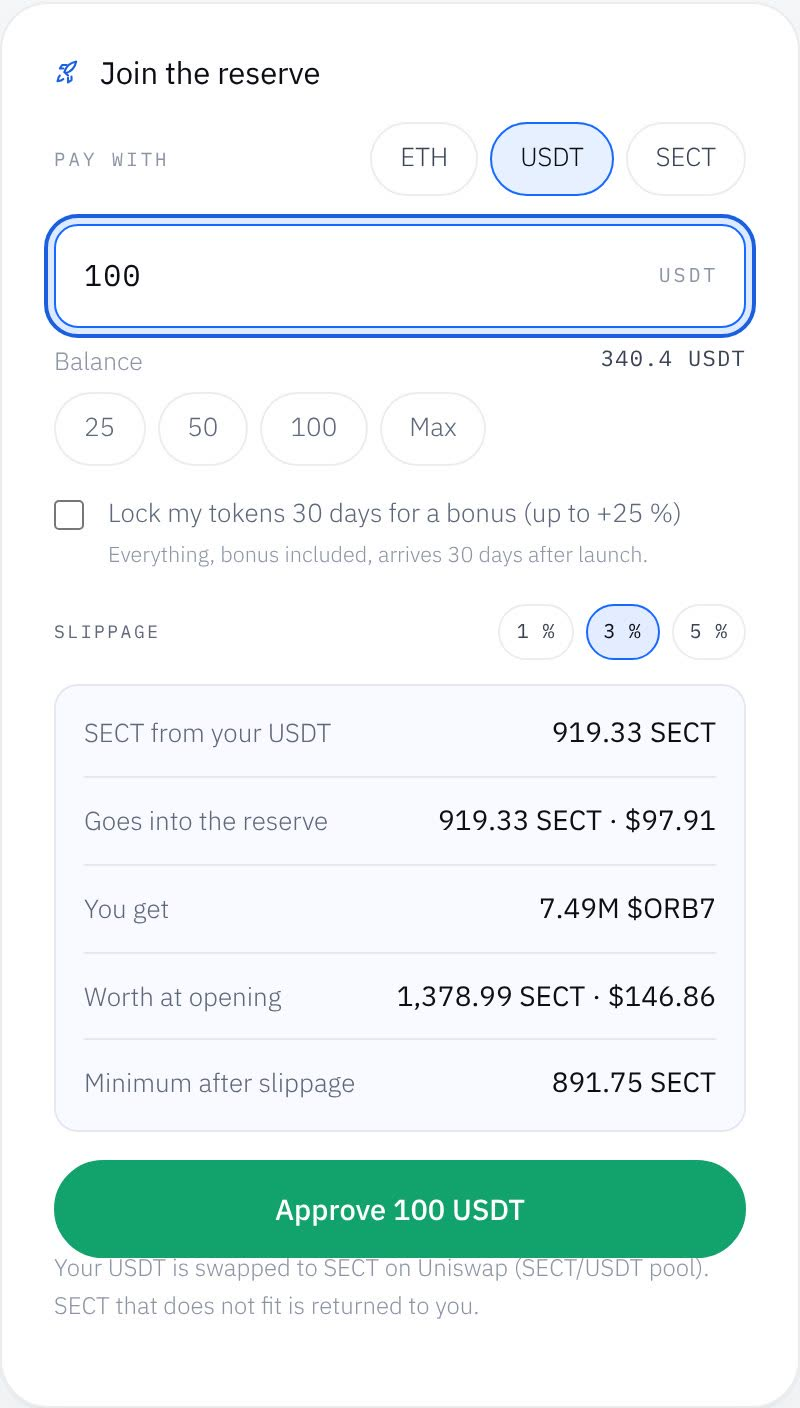
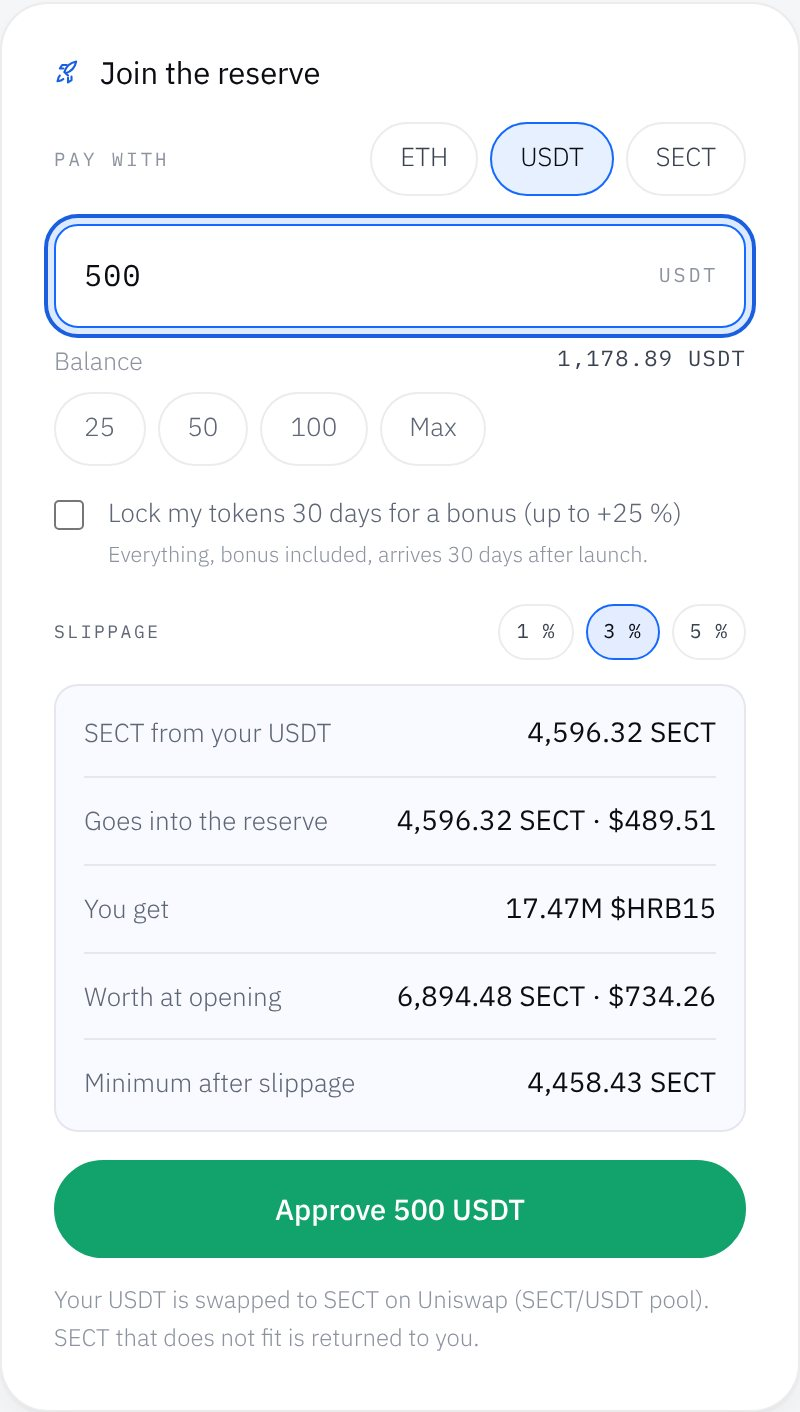
Intro: real iPhone frame for the phone shots (like the airdrop guide), example with $500, English by default, new screenshots; join note no longer overlaps its button
Claude-Session: https://claude.ai/code/session_012XH3DXuKTEfxWgn6TkaSoC

diff --git a/intro/i18n.js b/intro/i18n.js
@@ -54,14 +54,14 @@
     w_note: "<b>The goal is not reached in time?</b> Everyone takes back 100 % of what they put in. No fees, no small print.",
     b_eb: "Part B · Your investment", b_t: "With the 75 % you get your 100 % back. <span>The 25 % is profit.</span>",
     b_p: "Because the pool opens 50 % above the price everyone paid in the reserve, the 75 % you receive at launch is already worth more than everything you put in. The 25 % that arrives over the next 7 days is the gain: the reflection of that 50 % rise.",
-    b_exh: "Example · you put $100 in a reserve",
+    b_exh: "Example · you put $500 in a reserve (the maximum per wallet)",
     b_r1: "You put in the reserve", b_r2: "Your tokens at the opening price (+50 %)", b_r3: "75 % delivered at launch", b_r4: "25 % delivered over 7 days", b_r5: "Total gain at the opening price",
     bl_in: "What you put in", bk_in: "your investment",
-    bl_out: "What you receive, at the opening price", bk_a: "75 % · covers your $100", bk_c: "25 % · gain",
-    b_bars: "The 75 % ($112.50) is more than your $100: <b>your whole investment is covered from day one</b>. The 25 % ($37.50) is pure gain, and with the $12.50 extra inside the 75 % it adds up to the +50 %.",
+    bl_out: "What you receive, at the opening price", bk_a: "75 % · covers your $500", bk_c: "25 % · gain",
+    b_bars: "The 75 % ($562.50) is more than your $500: <b>your whole investment is covered from day one</b>. The 25 % ($187.50) is pure gain, and with the $62.50 extra inside the 75 % it adds up to the +50 % ($250).",
     b1t: "Risk covered from day one", b1p: "At the opening price, the tokens you receive at launch are worth 112.5 % of what you paid.",
     b2t: "The gain arrives gradually", b2p: "The 25 % over 7 days keeps the price from being crushed in the first minute, which protects the value of what you already hold.",
-    b3t: "Or lock and earn more", b3p: "Lock for 30 days and receive everything plus a bonus of up to +25 %: up to $187.50 for every $100 at the opening price.",
+    b3t: "Or lock and earn more", b3p: "Lock for 30 days and receive everything plus a bonus of up to +25 %: up to $937.50 for your $500 at the opening price.",
     b_warn: "<b>Important:</b> the values are calculated at the opening price. Once trading starts the market sets the price: it can go up or down, and selling large amounts moves the price. The rules protect you from unfair launches, not from the market.",
     c_eb: "Part C · Why it matters for SECT holders", c_t: "Every launch <span>works for SECT</span>",
     c_p: "Every coin on Sectora Launch is priced in SECT. That means every reserve, every launch and every trade of every coin needs SECT. If you hold SECT, the launchpad is working for you.",
@@ -175,14 +175,14 @@
     w_note: "<b>¿No se llega a la meta a tiempo?</b> Todos recuperan el 100 % de lo que pusieron. Sin comisiones, sin letra pequeña.",
     b_eb: "Parte B · Tu inversión", b_t: "Con el 75 % recuperas el 100 %. <span>El 25 % es ganancia.</span>",
     b_p: "Como la pool abre un 50 % por encima del precio que todos pagaron en la reserva, el 75 % que recibes al lanzar ya vale más que todo lo que pusiste. El 25 % que llega en los 7 días siguientes es la ganancia: el reflejo de esa subida del 50 %.",
-    b_exh: "Ejemplo · pones $100 en una reserva",
+    b_exh: "Ejemplo · pones $500 en una reserva (el máximo por wallet)",
     b_r1: "Pones en la reserva", b_r2: "Tus tokens al precio de apertura (+50 %)", b_r3: "75 % que recibes al lanzar", b_r4: "25 % que recibes en 7 días", b_r5: "Ganancia total al precio de apertura",
     bl_in: "Lo que pones", bk_in: "tu inversión",
-    bl_out: "Lo que recibes, al precio de apertura", bk_a: "75 % · cubre tus $100", bk_c: "25 % · ganancia",
-    b_bars: "El 75 % ($112,50) es más que tus $100: <b>toda tu inversión queda cubierta desde el primer día</b>. El 25 % ($37,50) es ganancia pura, y con los $12,50 de más dentro del 75 % suma el +50 %.",
+    bl_out: "Lo que recibes, al precio de apertura", bk_a: "75 % · cubre tus $500", bk_c: "25 % · ganancia",
+    b_bars: "El 75 % ($562,50) es más que tus $500: <b>toda tu inversión queda cubierta desde el primer día</b>. El 25 % ($187,50) es ganancia pura, y con los $62,50 de más dentro del 75 % suma el +50 % ($250).",
     b1t: "Riesgo cubierto desde el día uno", b1p: "Al precio de apertura, los tokens que recibes al lanzar valen el 112,5 % de lo que pagaste.",
     b2t: "La ganancia llega poco a poco", b2p: "El 25 % en 7 días evita que el precio se hunda en el primer minuto, y eso protege el valor de lo que ya tienes.",
-    b3t: "O bloquea y gana más", b3p: "Bloquea 30 días y recibe todo más un bonus de hasta +25 %: hasta $187,50 por cada $100 al precio de apertura.",
+    b3t: "O bloquea y gana más", b3p: "Bloquea 30 días y recibe todo más un bonus de hasta +25 %: hasta $937,50 por tus $500 al precio de apertura.",
     b_warn: "<b>Importante:</b> los valores se calculan al precio de apertura. Cuando empieza el trading, el precio lo pone el mercado: puede subir o bajar, y vender cantidades grandes mueve el precio. Las reglas te protegen de lanzamientos injustos, no del mercado.",
     c_eb: "Parte C · Por qué importa a los holders de SECT", c_t: "Cada lanzamiento <span>trabaja para SECT</span>",
     c_p: "Todas las monedas de Sectora Launch cotizan en SECT. Eso significa que cada reserva, cada lanzamiento y cada operación de cada moneda necesita SECT. Si tienes SECT, el launchpad trabaja para ti.",
@@ -296,14 +296,14 @@
     w_note: "<b>A meta não foi atingida a tempo?</b> Todos recebem 100 % do que colocaram. Sem taxas, sem letras miúdas.",
     b_eb: "Parte B · Seu investimento", b_t: "Com os 75 % você recupera 100 %. <span>Os 25 % são lucro.</span>",
     b_p: "Como a pool abre 50 % acima do preço que todos pagaram na reserva, os 75 % que você recebe no lançamento já valem mais do que tudo o que você colocou. Os 25 % que chegam nos 7 dias seguintes são o ganho: o reflexo dessa alta de 50 %.",
-    b_exh: "Exemplo · você coloca $100 numa reserva",
+    b_exh: "Exemplo · você coloca $500 numa reserva (o máximo por carteira)",
     b_r1: "Você coloca na reserva", b_r2: "Seus tokens no preço de abertura (+50 %)", b_r3: "75 % que você recebe no lançamento", b_r4: "25 % que você recebe em 7 dias", b_r5: "Ganho total no preço de abertura",
     bl_in: "O que você coloca", bk_in: "seu investimento",
-    bl_out: "O que você recebe, no preço de abertura", bk_a: "75 % · cobre seus $100", bk_c: "25 % · ganho",
-    b_bars: "Os 75 % ($112,50) são mais que os seus $100: <b>todo o seu investimento fica coberto desde o primeiro dia</b>. Os 25 % ($37,50) são ganho puro, e com os $12,50 a mais dentro dos 75 % somam os +50 %.",
+    bl_out: "O que você recebe, no preço de abertura", bk_a: "75 % · cobre seus $500", bk_c: "25 % · ganho",
+    b_bars: "Os 75 % ($562,50) são mais que os seus $500: <b>todo o seu investimento fica coberto desde o primeiro dia</b>. Os 25 % ($187,50) são ganho puro, e com os $62,50 a mais dentro dos 75 % somam os +50 % ($250).",
     b1t: "Risco coberto desde o primeiro dia", b1p: "No preço de abertura, os tokens que você recebe no lançamento valem 112,5 % do que você pagou.",
     b2t: "O ganho chega aos poucos", b2p: "Os 25 % em 7 dias evitam que o preço desabe no primeiro minuto, e isso protege o valor do que você já tem.",
-    b3t: "Ou trave e ganhe mais", b3p: "Trave por 30 dias e receba tudo mais um bônus de até +25 %: até $187,50 para cada $100 no preço de abertura.",
+    b3t: "Ou trave e ganhe mais", b3p: "Trave por 30 dias e receba tudo mais um bônus de até +25 %: até $937,50 pelos seus $500 no preço de abertura.",
     b_warn: "<b>Importante:</b> os valores são calculados no preço de abertura. Quando o trading começa, o preço é definido pelo mercado: pode subir ou descer, e vender grandes quantidades move o preço. As regras protegem você de lançamentos injustos, não do mercado.",
     c_eb: "Parte C · Por que importa para os holders de SECT", c_t: "Cada lançamento <span>trabalha para o SECT</span>",
     c_p: "Todas as moedas do Sectora Launch são cotadas em SECT. Isso significa que cada reserva, cada lançamento e cada operação de cada moeda precisa de SECT. Se você tem SECT, o launchpad trabalha para você.",
@@ -377,9 +377,9 @@
   function pick() {
     var q = (location.search.match(/[?&]lang=([a-z]{2})/) || [])[1];
     if (q && T[q]) return q;
-    try { var s = sessionStorage.getItem("sectoraLaunch.lang"); if (s && T[s]) return s; } catch (e) {}
-    var n = String(navigator.language || "en").slice(0, 2).toLowerCase();
-    return T[n] ? n : "en";
+    // English unless the visitor picks another language on this page
+    try { var s = sessionStorage.getItem("sectoraIntro.lang"); if (s && T[s]) return s; } catch (e) {}
+    return "en";
   }
   function nf(v, d) { return v.toLocaleString(LOC[L], { maximumFractionDigits: d == null ? 0 : d, minimumFractionDigits: d == null ? 0 : d }); }
   function usd(v) { return "$" + nf(v, v < 100 ? 2 : 0); }
@@ -410,18 +410,18 @@
       document.getElementById("bigP").innerHTML = d.big_off;
     }
   }
-  function apply(l) {
+  function apply(l, save) {
     L = T[l] ? l : "en";
     var d = T[L];
     document.documentElement.lang = L;
     document.title = d.title;
     document.querySelectorAll("[data-i]").forEach(function (el) { var k = el.getAttribute("data-i"); if (d[k] != null) el.innerHTML = d[k]; });
-    document.querySelectorAll("img[data-img]").forEach(function (im) { im.src = "img/" + L + "-" + im.getAttribute("data-img") + ".jpg?v=2"; im.loading = "lazy"; im.decoding = "async"; im.onclick = function () { window.open(im.src, "_blank", "noopener"); }; });
+    document.querySelectorAll("img[data-img]").forEach(function (im) { im.src = "img/" + L + "-" + im.getAttribute("data-img") + ".jpg?v=3"; im.loading = "lazy"; im.decoding = "async"; im.onclick = function () { window.open(im.src, "_blank", "noopener"); }; });
     document.querySelectorAll("[data-v]").forEach(function (el) { var v = +el.getAttribute("data-v"), dd = el.hasAttribute("data-d") ? +el.getAttribute("data-d") : 2; el.textContent = (el.hasAttribute("data-plus") ? "+" : "") + "$" + nf(v, dd); });
     document.getElementById("tbl").innerHTML = table(d);
     sectTable();
     document.querySelectorAll("#langs button").forEach(function (b) { b.classList.toggle("on", b.getAttribute("data-l") === L); });
-    try { sessionStorage.setItem("sectoraLaunch.lang", L); } catch (e) {}
+    if (save) try { sessionStorage.setItem("sectoraIntro.lang", L); sessionStorage.setItem("sectoraLaunch.lang", L); } catch (e) {}
   }
   // live SECT price (largest SECT pool on Ethereum, from DexScreener)
   function loadPrice() {
@@ -435,7 +435,7 @@
       if (best) { PX = best.p; sectTable(); }
     }).catch(function () {});
   }
-  document.querySelectorAll("#langs button").forEach(function (b) { b.addEventListener("click", function () { apply(b.getAttribute("data-l")); }); });
+  document.querySelectorAll("#langs button").forEach(function (b) { b.addEventListener("click", function () { apply(b.getAttribute("data-l"), true); }); });
   apply(pick());
   loadPrice();
 })();

diff --git a/intro/index.html b/intro/index.html
@@ -115,7 +115,13 @@ h2 span { color: var(--key); font-weight: 400; }
 .browser .bar { height: 30px; display: flex; align-items: center; gap: 6px; padding: 0 12px; border-bottom: 1px solid var(--line); background: var(--surf); }
 .browser .bar i { width: 8px; height: 8px; border-radius: 50%; background: var(--line2); display: block; }
 .browser .bar span { margin-left: 10px; font-family: var(--mono); font-size: 10.5px; color: var(--ink3); background: #fff; border: 1px solid var(--line); border-radius: 4px; padding: 2px 10px; flex: 1; max-width: 300px; white-space: nowrap; overflow: hidden; text-overflow: ellipsis; }
-.phone { width: 230px; flex: 0 0 auto; border: 8px solid #0a0f1a; border-radius: 30px; overflow: hidden; background: #000; box-shadow: 0 20px 44px -26px rgba(15,23,42,.5); }
+.phone { position: relative; width: 230px; flex: 0 0 auto; border: 2px solid transparent; border-radius: 16% / 7.7%;
+  background: linear-gradient(#030405,#030405) padding-box, linear-gradient(150deg,#a7aab0,#45474c 20%,#8c8f96 46%,#33353a 72%,#9a9da4) border-box;
+  box-shadow: 0 30px 56px -30px rgba(7,8,10,.6), 0 2px 6px rgba(7,8,10,.12); }
+.phone img { display: block; width: 93%; margin: 3.5%; border-radius: 13.4% / 6.2%; }
+.phone::before { content: ""; position: absolute; right: -4px; top: 25%; width: 3px; height: 12%; border-radius: 0 2px 2px 0; background: linear-gradient(90deg,#55575c,#9a9da4); }
+.phone::after { content: ""; position: absolute; left: -4px; top: 15%; width: 3px; height: 27%; border-radius: 2px 0 0 2px;
+  background: linear-gradient(#8c8f96 0 11%, transparent 11% 27%, #8c8f96 27% 57%, transparent 57% 66%, #8c8f96 66% 96%, transparent 96%); }
 .cap { font-size: 12.5px; color: var(--ink3); line-height: 1.45; }
 .cap::before { content: "▲ "; color: var(--key); font-size: 9px; }
 .ok-note, .warn { margin-top: 18px; display: flex; gap: 12px; align-items: flex-start; border-radius: 8px; padding: 16px 18px; font-size: 14.5px; line-height: 1.55; }
@@ -316,7 +322,7 @@ footer .wrap { display: flex; flex-wrap: wrap; justify-content: space-between; g
   <div class="step">
     <div class="num">02<small data-i="a_l">Part A</small></div>
     <div><h3 data-i="s2t"></h3><ol><li data-i="s2a"></li><li data-i="s2b"></li><li data-i="s2c"></li></ol></div>
-    <div class="shots row2"><div class="browser" style="flex:1 1 0;max-width:330px"><div class="bar"><i></i><i></i><i></i><span>sectoralabs.com</span></div><img data-img="join" width="800" height="1450" alt=""></div><div class="phone"><img data-img="phone" width="1170" height="1782" alt=""></div></div>
+    <div class="shots row2"><div class="browser" style="flex:1 1 0;max-width:330px"><div class="bar"><i></i><i></i><i></i><span>sectoralabs.com</span></div><img data-img="join" width="800" height="1450" alt=""></div><div class="phone"><img data-img="phone" width="780" height="1688" alt=""></div></div>
   </div>
   <p class="cap" style="margin-top:-8px" data-i="s2cap"></p>
   <div class="step">
@@ -339,18 +345,18 @@ footer .wrap { display: flex; flex-wrap: wrap; justify-content: space-between; g
   <div class="inv">
     <div class="ex">
       <div class="h" data-i="b_exh"></div>
-      <div class="r"><span data-i="b_r1"></span><b data-v="100"></b></div>
-      <div class="r"><span data-i="b_r2"></span><b data-v="150"></b></div>
-      <div class="r"><span data-i="b_r3"></span><b data-v="112.5"></b></div>
-      <div class="r"><span data-i="b_r4"></span><b data-v="37.5"></b></div>
-      <div class="r t"><span data-i="b_r5"></span><b data-v="50" data-plus="1"></b></div>
+      <div class="r"><span data-i="b_r1"></span><b data-v="500"></b></div>
+      <div class="r"><span data-i="b_r2"></span><b data-v="750"></b></div>
+      <div class="r"><span data-i="b_r3"></span><b data-v="562.5"></b></div>
+      <div class="r"><span data-i="b_r4"></span><b data-v="187.5"></b></div>
+      <div class="r t"><span data-i="b_r5"></span><b data-v="250" data-plus="1"></b></div>
     </div>
     <div class="bars">
       <div class="bl" data-i="bl_in"></div>
-      <div class="bk"><div class="in" style="width:66.67%"><b data-v="100" data-d="0"></b><span data-i="bk_in"></span></div></div>
+      <div class="bk"><div class="in" style="width:66.67%"><b data-v="500" data-d="0"></b><span data-i="bk_in"></span></div></div>
       <div class="bl" style="margin-top:18px" data-i="bl_out"></div>
-      <div class="bk"><div class="a" style="width:75%"><b data-v="112.5"></b><span data-i="bk_a"></span></div><div class="c" style="width:25%"><b data-v="37.5"></b><span data-i="bk_c"></span></div></div>
-      <div class="ruler"><span style="left:0;transform:none">$0</span><span style="left:66.67%">$100</span><span style="right:0;left:auto;transform:none">$150</span></div>
+      <div class="bk"><div class="a" style="width:75%"><b data-v="562.5"></b><span data-i="bk_a"></span></div><div class="c" style="width:25%"><b data-v="187.5"></b><span data-i="bk_c"></span></div></div>
+      <div class="ruler"><span style="left:0;transform:none">$0</span><span style="left:66.67%">$500</span><span style="right:0;left:auto;transform:none">$750</span></div>
       <p data-i="b_bars"></p>
     </div>
   </div>
@@ -468,6 +474,6 @@ footer .wrap { display: flex; flex-wrap: wrap; justify-content: space-between; g
 
 <footer><div class="wrap"><span data-i="foot"></span><span><b>Sectora Foundation IL</b> · EIN 32-0868576 · sectoralabs.com</span></div></footer>
 
-<script src="i18n.js?v=2"></script>
+<script src="i18n.js?v=3"></script>
 </body>
 </html>

diff --git a/index.html b/index.html
@@ -14,7 +14,7 @@
 <link rel="preload" href="fonts/IBMPlexSans.woff2" as="font" type="font/woff2" crossorigin>
 <link rel="preload" href="fonts/IBMPlexMono-400.woff2" as="font" type="font/woff2" crossorigin>
 <link rel="preload" href="fonts/IBMPlexMono-500.woff2" as="font" type="font/woff2" crossorigin>
-<link rel="stylesheet" href="launch.css?v=20261126c">
+<link rel="stylesheet" href="launch.css?v=20261126d">
 </head>
 <body>
 <div class="li" id="li" aria-hidden="true"></div>

diff --git a/launch.css b/launch.css
@@ -885,6 +885,7 @@ html.sl-lb-open, html.sl-lb-open body { overflow: hidden; }
 .sl-field .sl-pay { justify-content: flex-start; }
 .sl-route { margin: -4px 0 14px; font-size: 12px; line-height: 1.55; color: var(--ink4); }
 .sl-route a { color: var(--blue); }
+.sl-btn + .sl-route { margin: 12px 0 0; }
 
 /* ==========================================================================
    Friendly layer — rounded and soft, black with white (like the Airdrop page):
